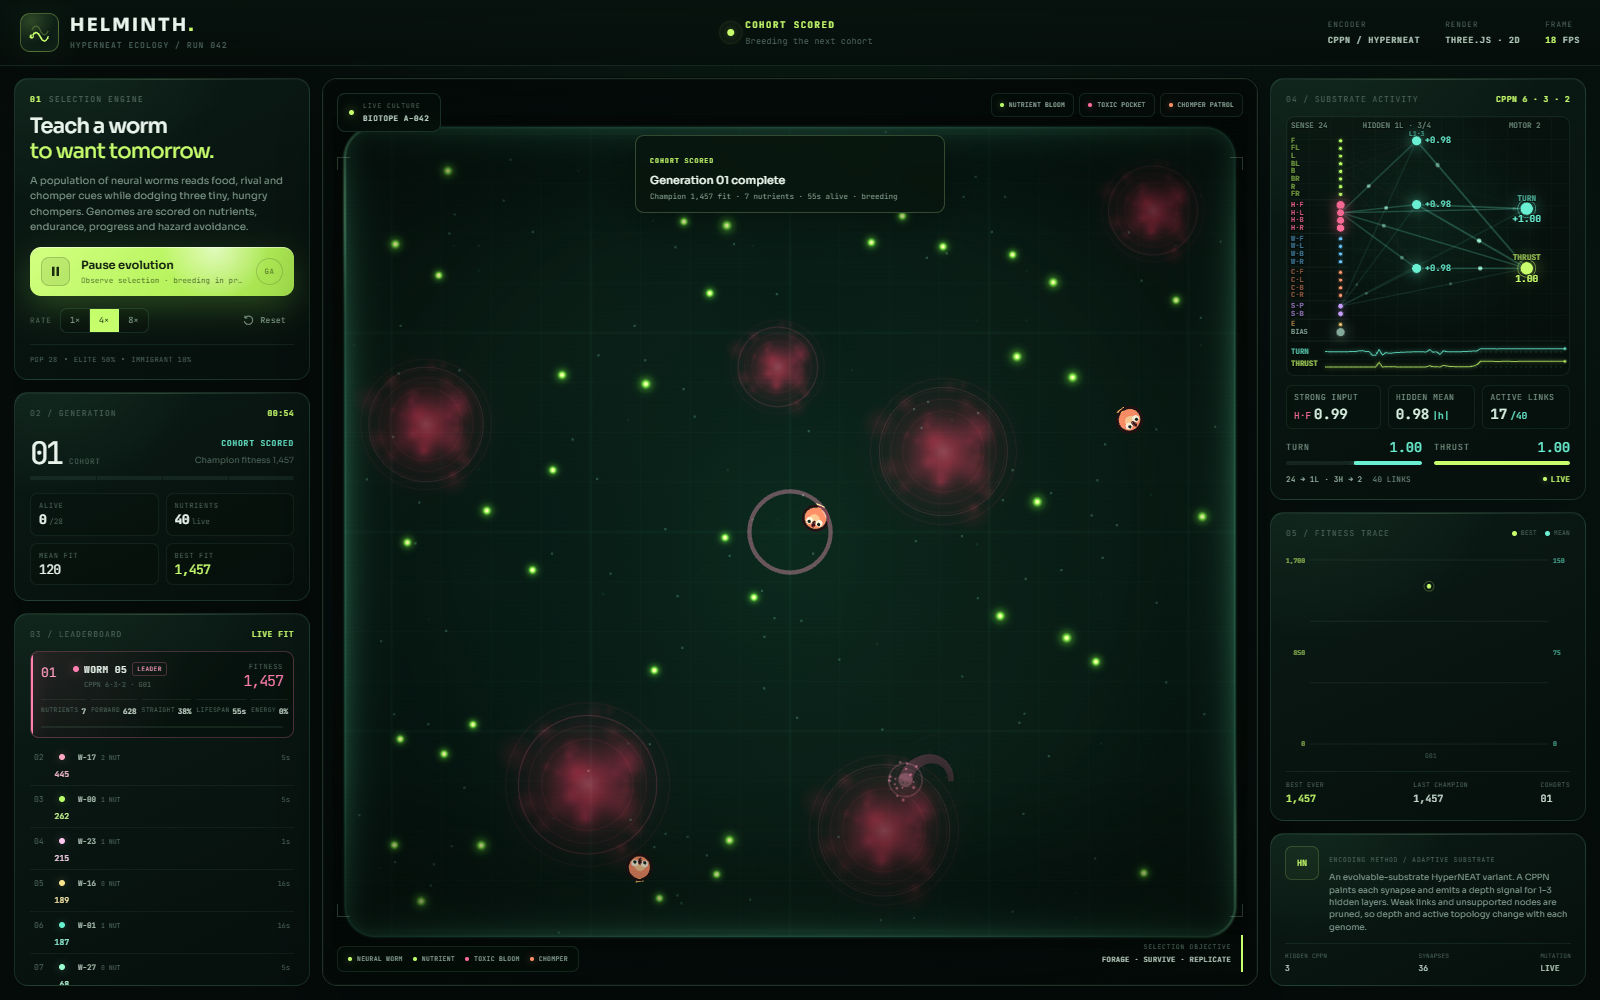
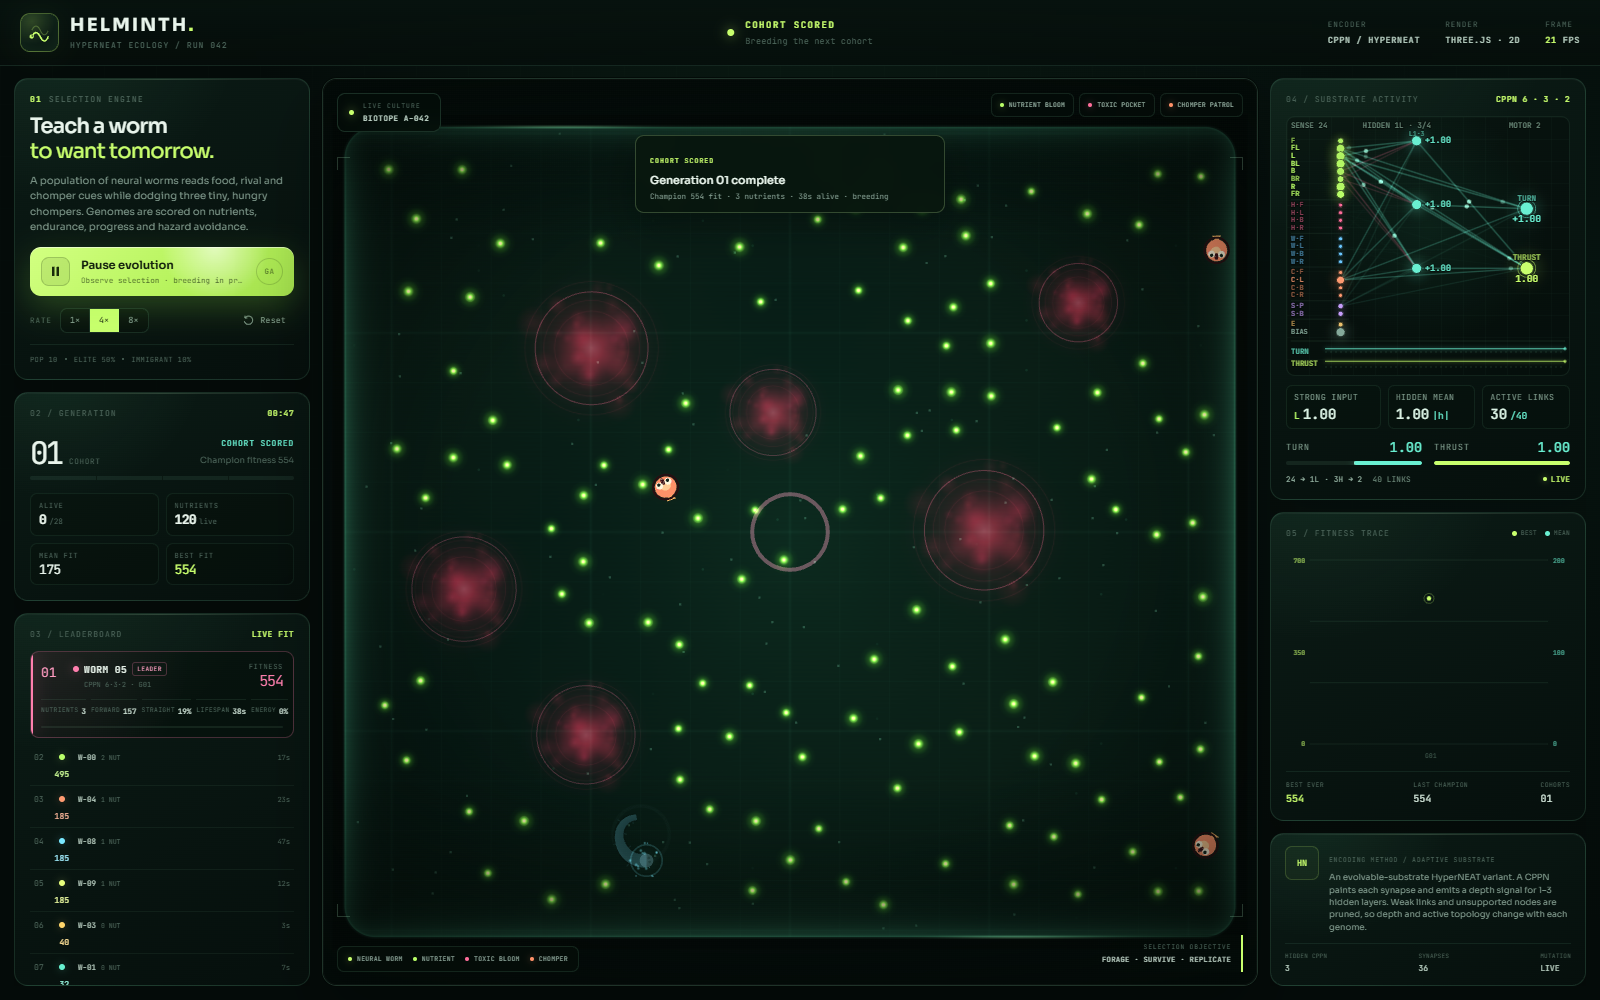
Spawn worms randomly with more food to expose real learning

diff --git a/src/sim/ecology.js b/src/sim/ecology.js
@@ -20,8 +20,8 @@ export class Ecology {
     this.spawnPoints = [];
     this.hazardField = [];
 
-    this.createHazards();
     this.createSpawnPoints(config.populationSize);
+    this.createHazards();
     this.createInitialFood();
   }
 
@@ -37,7 +37,12 @@ export class Ecology {
           const minDistance = hazard.radius + radius + 96;
           return distanceSq(point.x, point.y, hazard.x, hazard.y) > minDistance * minDistance;
         });
-        if (clear) {
+        const clearOfSpawns = this.spawnPoints.every(
+          (spawn) =>
+            distanceSq(point.x, point.y, spawn.x, spawn.y) >
+            (radius + 64) * (radius + 64),
+        );
+        if (clear && clearOfSpawns) {
           candidate = {
             id: `hazard-${index}`,
             x: point.x,
@@ -51,7 +56,15 @@ export class Ecology {
       }
 
       if (!candidate) {
-        const point = randomPoint(this.rng, 120);
+        let point = randomPoint(this.rng, 120);
+        for (let attempt = 0; attempt < 200; attempt += 1) {
+          const clearOfSpawns = this.spawnPoints.every(
+            (spawn) =>
+              distanceSq(point.x, point.y, spawn.x, spawn.y) > 160 * 160,
+          );
+          if (clearOfSpawns) break;
+          point = randomPoint(this.rng, 120);
+        }
         candidate = {
           id: `hazard-${index}`,
           x: point.x,
@@ -67,28 +80,77 @@ export class Ecology {
   }
 
   createSpawnPoints(count) {
+    const { minSpacing, candidates, margin } = this.config.spawn;
     const points = [];
-    let attempts = 0;
 
-    while (points.length < count && attempts < 800) {
-      attempts += 1;
-      const point = randomPoint(this.rng, 112);
-      if (this.isInsideHazard(point.x, point.y, 46)) continue;
-      const spaced = points.every(
-        (existing) => distanceSq(existing.x, existing.y, point.x, point.y) > 82 * 82,
-      );
-      if (spaced) points.push(point);
-    }
+    for (let index = 0; index < count; index += 1) {
+      let best = null;
+      let bestClearance = -Infinity;
 
-    while (points.length < count) {
-      const angle = (points.length / count) * Math.PI * 2;
-      points.push({
-        x: WORLD.width * 0.5 + Math.cos(angle) * WORLD.width * 0.33,
-        y: WORLD.height * 0.5 + Math.sin(angle) * WORLD.height * 0.33,
-      });
+      for (let attempt = 0; attempt < candidates; attempt += 1) {
+        const point = randomPoint(this.rng, margin);
+        if (this.isInsideHazard(point.x, point.y, 46)) continue;
+
+        let nearest = Infinity;
+        for (const existing of points) {
+          nearest = Math.min(nearest, Math.hypot(existing.x - point.x, existing.y - point.y));
+        }
+        if (nearest > bestClearance) {
+          bestClearance = nearest;
+          best = point;
+        }
+      }
+
+      if (!best) {
+        const angle = (index / count) * Math.PI * 2;
+        best = {
+          x: WORLD.width * 0.5 + Math.cos(angle) * WORLD.width * 0.33,
+          y: WORLD.height * 0.5 + Math.sin(angle) * WORLD.height * 0.33,
+        };
+        bestClearance = Infinity;
+      }
+
+      points.push(best);
     }
 
     this.spawnPoints = points;
+  }
+
+  relocateSpawnPointsAwayFrom(chompers) {
+    const { chomperClearance, margin } = this.config.spawn;
+    const points = [];
+
+    for (const spawn of this.spawnPoints) {
+      let point = spawn;
+      for (let attempt = 0; attempt < 240; attempt += 1) {
+        const nearChomper = chompers.some(
+          (chomper) =>
+            distanceSq(point.x, point.y, chomper.x, chomper.y) <
+            (chomper.radius + chomperClearance) * (chomper.radius + chomperClearance),
+        );
+        if (!nearChomper && !this.isInsideHazard(point.x, point.y, 46)) break;
+        point = randomPoint(this.rng, margin);
+      }
+      points.push(point);
+    }
+
+    this.spawnPoints = points;
+    this.separateFoodFromSpawns();
+  }
+
+  separateFoodFromSpawns() {
+    const margin = 64;
+    for (const food of this.foods) {
+      for (let attempt = 0; attempt < 200; attempt += 1) {
+        const clear = this.spawnPoints.every(
+          (spawn) => distanceSq(food.x, food.y, spawn.x, spawn.y) > 72 * 72,
+        );
+        if (clear) break;
+        const position = this.findFoodPosition();
+        food.x = position.x;
+        food.y = position.y;
+      }
+    }
   }
 
   createInitialFood() {

diff --git a/src/config.js b/src/config.js
@@ -9,15 +9,21 @@ export const STEP = 1 / 60;
 export const CONFIG = Object.freeze({
   seed: 4217,
   maxGenerationSeconds: 120,
-  populationSize: 28,
+  populationSize: 10,
   eliteFraction: 0.5,
   immigrantFraction: 0.1,
   food: {
-    count: 40,
+    count: 120,
     energy: 24,
     radius: 11,
     respawnSeconds: 3.8,
     minHazardDistance: 62,
+  },
+  spawn: {
+    minSpacing: 150,
+    candidates: 28,
+    margin: 96,
+    chomperClearance: 120,
   },
   hazards: {
     count: 6,

diff --git a/src/evolution.js b/src/evolution.js
@@ -41,6 +41,7 @@ export class Evolution {
     this.spawnRng = mulberry32(seed ^ 0x85ebca6b);
     this.ecology = new Ecology(seed, this.config);
     this.predators = new ChomperPack(seed + 131, this.config, this.ecology);
+    this.ecology.relocateSpawnPointsAwayFrom(this.predators.chompers);
     this.agents = genomes.map((genome, index) => {
       const spawn = this.ecology.spawnPoints[index];
       const heading =

diff --git a/index.html b/index.html
@@ -121,7 +121,7 @@
             </div>
 
             <div class="panel-foot">
-              <span>POP 28</span><i></i><span>ELITE 50%</span><i></i><span>IMMIGRANT 10%</span>
+              <span>POP 10</span><i></i><span>ELITE 50%</span><i></i><span>IMMIGRANT 10%</span>
             </div>
           </section>
 

diff --git a/src/main.js b/src/main.js
@@ -115,6 +115,7 @@ window.__HELMINTH__ = {
     alive: evolution.aliveCount,
     chompers: evolution.predators?.chompers.length ?? 0,
     history: evolution.history,
+    maxGenerationSeconds: CONFIG.maxGenerationSeconds,
   }),
   getRenderer: () => renderer,
   setSpeed,

diff --git a/README.md b/README.md
@@ -2,10 +2,10 @@
 
 **An evolvable-substrate HyperNEAT ecology for worms that forage, sense rivals, and flee chompers.**
 
-HELMINTH is a browser-native 2D artificial-life experiment. A population of 28 neural worms is scored on nutrient intake, survival, forward progress, and hazard avoidance. Each worm's brain is a neural substrate painted by a CPPN, and the substrate's hidden depth evolves alongside its connection weights. Three small chompers patrol the arena, turning the food race into a game of risk.
+HELMINTH is a browser-native 2D artificial-life experiment. A population of 10 neural worms is scored on nutrient intake, survival, forward progress, and hazard avoidance. Each worm's brain is a neural substrate painted by a CPPN, and the substrate's hidden depth evolves alongside its connection weights. Three small chompers patrol the arena, turning the food race into a game of risk.
 
 <p align="center">
-  <img src="docs/screenshots/01-standby.png" alt="HELMINTH standby screen with 28 worms, nutrient blooms, toxic pockets, and three chompers" width="100%">
+  <img src="docs/screenshots/01-standby.png" alt="HELMINTH standby screen with 10 worms, nutrient blooms, toxic pockets, and three chompers" width="100%">
 </p>
 
 ## Highlights
@@ -72,7 +72,7 @@ The substrate close-up shows the evolved topology in motion: food, hazard, rival
 5. **Score.** Fitness combines food, survival time, straight-line travel, net forward progress, remaining energy, hazard exposure, and a turning cost.
 6. **Select.** The population is ranked; the top half is retained unchanged, the bottom half is cloned and mutated, and a 10% immigrant slice is replaced with fresh random CPPNs.
 
-A generation ends when the last worm dies or after a 120-second cap, so a robust surviving cohort cannot stall evolution. The default population is 28 worms: the top 50% are kept as elites, the bottom 50% are mutated into the next cohort, and 10% are fresh random genomes. The UI also offers a 4×/8× fast-forward control.
+A generation ends when the last worm dies or after a 120-second cap, so a robust surviving cohort cannot stall evolution. The default population is 10 worms: the top 50% are kept as elites, the bottom 50% are mutated into the next cohort, and 10% are fresh random genomes. Worms start at random positions that are evenly spaced, clear of toxic pockets, and well away from the chompers, so cohort-to-cohort fitness differences reflect behaviour rather than luck of the draw. The UI also offers a 4×/8× fast-forward control.
 
 ## Adaptive substrate
 
